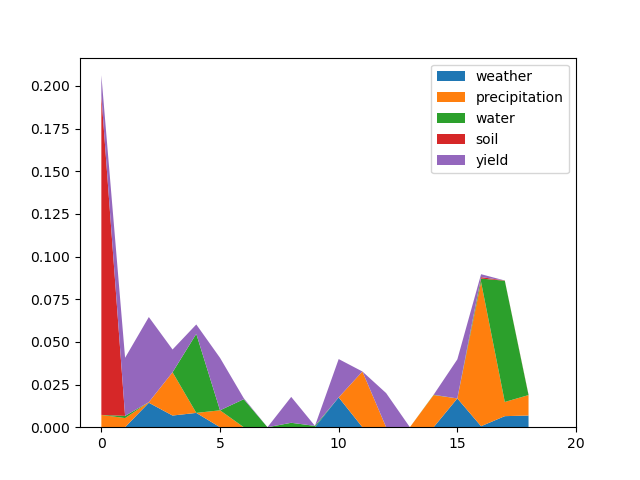
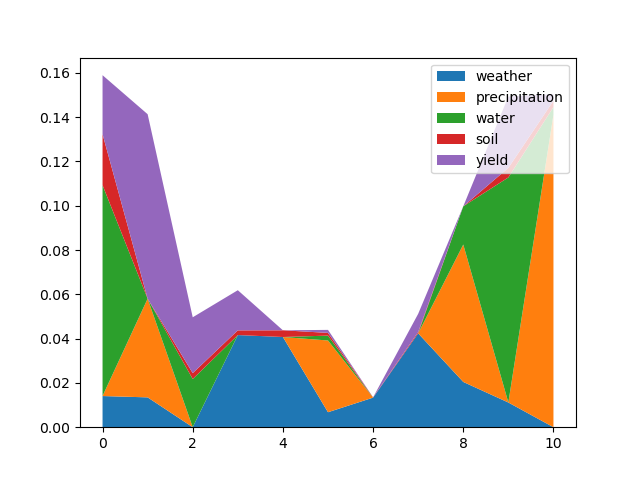
[feat] change env stop condition and retrain model

diff --git a/crop_model.py b/crop_model.py
@@ -5,7 +5,7 @@ import numpy as np
 
 class CropEnv:
     def __init__(self, num_features: int, num_actions: int, continuous: bool,
-                 max_iter: int, transition_funcs: List[Callable],  initial_state=None,
+                 transition_func: Callable, stop_cond: Callable, initial_state=None,
                  feature_labels: List[str] = None, action_labels: List[str] = None):
         """Initialize a crop experiment environment.
         Parameters
@@ -16,15 +16,15 @@ class CropEnv:
             Dimension of the action space.
         continuous : bool
             If the action space is continuous or not.
-        max_iter : int
-            Max number of iterations the environment will run.
-        transition_funcs : list of callable
-            List of transition functions. Length should equal to
-            `num_features`. Each function should take in two parameters,
-            `state_history` and `action_history`, where `state_history` is
-            a list of `t + 1` `np.ndarray` of shape `(num_features,)`, and
-            `action_history` is a list of `t` numbers, in which `t` is the
-            total number of steps run.
+        transition_func : callable
+            Transition functions that take in two parameters `state_history`
+            and `action_history`, and returns the next state and reward.
+            `state_history` is list of `t + 1` `np.ndarray` of shape
+            `(num_features,)`, and action_history` is a list of `t` numbers,
+            in which `t` is the total number of steps run.
+        stop_cond : callable
+            A function that takes in the current state and the iteration
+            number and return `True` if the simulation should terminate.
         initial_state : , (n,) array, or `None`, optional
             Initial state. Also used to restart the environment. `n` is
             equal to `num_features`.
@@ -36,10 +36,9 @@ class CropEnv:
         self.num_features = num_features
         self.num_actions = num_actions
         self.continuous = continuous
-        self.max_iter = max_iter
-        self.iter = 0
-        assert len(transition_funcs) == num_features
-        self.transition_funcs = transition_funcs
+        self.transition_func = transition_func
+        self.stop_cond = stop_cond
+        self.random_seed = None
 
         if initial_state is not None:
             assert np.array(initial_state).shape == (num_features,)
@@ -53,17 +52,34 @@ class CropEnv:
             assert len(action_labels) == num_actions
         self.action_labels = action_labels
 
+        self.iter = 0
         self.state_history = [self.initial_state]
         self.action_history = []
+        self.rewards = []
+        self.reset()
+
+    def set_random_seed(self, random_seed):
+        """Set the random seed. Also reset the environment.
+        Parameters
+        ----------
+        random_seed : int
+            The random seed.
+        """
+        self.random_seed = random_seed
+        self.reset()
 
     def reset(self):
         """Restart the environment.
         Initialize to `self.initial_state`, or all zero if
-        `self.initial_state` is `None`.
+        `self.initial_state` is `None`. If `self.random_seed` is not None, also
+        set the random seed to that value.
         """
         self.iter = 0
         self.state_history = [self.initial_state]
         self.action_history = []
+        self.rewards = []
+        if self.random_seed is not None:
+            np.random.seed(self.random_seed)
 
     def step(self, action: np.ndarray) -> np.ndarray:
         """Execute one step in the environment.
@@ -81,15 +97,22 @@ class CropEnv:
         done: bool
             `True` if the simulation is ended.
         """
-        assert self.iter + 1 < self.max_iter
         self.iter += 1
 
         self.action_history.append(action)
-        new_state = self.state_history[-1].copy()
-        for i in range(self.num_features):
-            new_state[i] = self.transition_funcs[i](self.state_history, self.action_history)
+        new_state, reward = self.transition_func(self.state_history, self.action_history)
         self.state_history.append(new_state)
-        return new_state, new_state[-1], self.iter == self.max_iter - 1
+        self.rewards.append(reward)
+        return new_state, reward, self.stop_cond(new_state, self.iter)
+
+    def total_return(self):
+        """Compute the return of the current run.
+        Returns
+        -------
+        _return : float
+            Sum of the rewards of the current run.
+        """
+        return sum(self.rewards)
 
     def print_history(self):
         for t in range(len(self.state_history)):
@@ -104,7 +127,7 @@ class CropEnv:
             if t < len(self.action_history):
                 if self.action_labels is not None:
                     action_str = ", ".join([f"{label}={val}" for val, label
-                                           in zip(self.action_history[t], self.action_labels)])
+                                            in zip(self.action_history[t], self.action_labels)])
                 else:
                     action_str = str(self.action_history[t])
                 print(f'action:\n\t{action_str}')
@@ -121,60 +144,68 @@ def get_toy_env():
     feature_labels = ['weather', 'precipitation', 'water', 'soil', 'yield']
     action_labels = ['irrigation', 'fertilizer']
 
-    def weather_transition(state_history, _action_history, p):
+    def transition_func(state_history, action_history):
+        WEATHER_CHANGE_PROB = 0.2
+        GOOD_WEATHER_PRECIP_MEAN = 0
+        GOOD_WEATHER_PRECIP_STD = 50
+        BAD_WEATHER_PRECIP_MEAN = 150
+        BAD_WEATHER_PRECIP_STD = 50
+        IRRIGATION_MEAN = 100
+        IRRIGATION_STD = 10
+        SOIL_DECAY = 0.95
+        FERTILIZER_DECAY = 0.8
+        BASE_YIELD_MEAN = 100
+        BASE_YIELD_STD = 20
+        DESIRED_WATER = 100
+        WATER_PENALTY = 0.02
+        FERTILIZER_BONUS = 3.5
+
+        prev_state = state_history[-1]
+        action = action_history[-1]
+
+        prev_weather, prev_soil = prev_state[0], prev_state[3]
+        irrigate, fertilize = action
+
         # weather is good (0) or bad (1)
         # weather has a chance of `1 - p` to change
-        prev_weather = state_history[-1][0]
-        return prev_weather if np.random.rand() < p else 1 - prev_weather
+        weather = 1 - prev_weather if np.random.rand() < WEATHER_CHANGE_PROB else prev_weather
 
-    def precipitation_transition(state_history, _action_history,
-                                 mean_lo, std_lo, mean_hi, std_hi):
-        # precipitation is a float
-        # if previous weather is good, return max(N(`mean_lo`, `std_lo`), 0)
+        # if previous weather is good, precipitation is max(N(`mean_lo`, `std_lo`), 0)
         # otherwise, return max(N(`mean_hi`, `std_hi`), 0)
-        prev_weather = state_history[-1][0]
         if prev_weather == 0:
-            precipitation = np.random.normal(mean_lo, std_lo)
+            precip = np.random.normal(GOOD_WEATHER_PRECIP_MEAN, GOOD_WEATHER_PRECIP_STD)
         else:
-            precipitation = np.random.normal(mean_hi, std_hi)
-        precipitation = max(precipitation, 0)
-        return precipitation
+            precip = np.random.normal(BAD_WEATHER_PRECIP_MEAN, BAD_WEATHER_PRECIP_STD)
+        precip = max(precip, 0)
 
-    def water_transition(state_history, action_history, irrigation_amount):
         # amount of water crop received is precipitation + irrigation
-        irrigation = action_history[-1][0] if len(action_history) else False
-        return state_history[-1][1] + (irrigation_amount if irrigation else 0)
+        irrigation = np.random.normal(IRRIGATION_MEAN, IRRIGATION_STD) if irrigate else 0
+        water = precip + irrigation
 
-    def soil_transition(state_history, action_history,
-                        regular_decay, fertilizer_decay):
         # soil degrade with regular_decay * fertilizer_decay
-        soil = state_history[-1][3] * regular_decay
-        if action_history[-1][1]:
-            soil *= fertilizer_decay
-        return soil
+        soil = prev_soil * SOIL_DECAY
+        if fertilize:
+            soil *= FERTILIZER_DECAY
 
-    def yield_transition(state_history, action_history, water_mean, water_std, fertilizer_bonus):
-        # yield = water_contribution + soil + fertilizer_bonus
-        # water_contribution = N(water_mean, water_std)
+        # yield = max((base_yield + water_contribution) * soil * fertilizer_bonus, 0)
+        # water_penalty = -water_penalty * (water - water_base) ** 2
         # note that water_contribution could be negative
         # fertilizer_bonus only applies if fertilized
-        return np.random.normal(water_mean, water_std) \
-               + state_history[-1][3] \
-               + fertilizer_bonus if action_history[-1][1] else 0
+        result = np.random.normal(BASE_YIELD_MEAN, BASE_YIELD_STD)
+        result -= WATER_PENALTY * ((water - DESIRED_WATER) ** 2)
+        result *= soil
+        if fertilize:
+            result *= FERTILIZER_BONUS
+        result = max(result, 0)
 
-    toy_transition_funcs = [
-        # weather
-        lambda states, actions: weather_transition(states, actions, 0.6),
-        # precipitation
-        lambda states, actions: precipitation_transition(states, actions, 20, 10, 200, 50),
-        # water
-        lambda states, actions: water_transition(states, actions, 100),
-        # soil
-        lambda states, actions: soil_transition(states, actions, 1.0, 0.8),
-        # yield
-        lambda states, actions: yield_transition(states, actions, 100, 20, 20)
-    ]
-    env = CropEnv(5, 2, False, 20, toy_transition_funcs,
-                  initial_state=np.array([0, 0, 0, 100, 0]),
+        new_state = np.array([weather, precip, water, soil, result])
+        return new_state, result
+
+    def stop_cond(state, _it):
+        # terminate if soil is < 0.1
+        return state[3] < 0.1
+
+    env = CropEnv(5, 2, False, transition_func, stop_cond,
+                  initial_state=np.array([0, 0, 0, 1., 0]),
                   feature_labels=feature_labels, action_labels=action_labels)
     return feature_labels, action_labels, env

diff --git a/visualize.py b/visualize.py
@@ -10,20 +10,57 @@ device = torch.device("cuda" if torch.cuda.is_available() else "cpu")
 
 feature_labels, action_labels, env = get_toy_env()
 env: CropEnv = env
+env.set_random_seed(42)
 
 n_features = len(feature_labels)
 # nop, only irrigation, only fertilizer, both
 actions = [[False, False], [True, False], [False, True], [True, True]]
 n_actions = len(actions)
 
-hidden_layers = [32, 64]
+hidden_layers = [16, 32, 64]
 
 net = DQN(n_features, n_actions, hidden_layers).to(device)
 net.load_state_dict(torch.load('./model/dqn.pth'))
 
-# nop, only irrigation, only fertilizer, both
+
+def plot_state_history(env, path):
+    state_history = np.array(env.state_history)
+    for feature_history, label in zip(state_history.T, feature_labels):
+        if label == 'weather' or label == 'soil':
+            feature_history = feature_history * 100
+        plt.plot(feature_history, label=label)
+    plt.xlabel('iteration')
+    plt.legend()
+    plt.savefig(path)
+    plt.clf()
+
+
+# nop, only irrigate, only fertilize, both
 actions = [[False, False], [True, False], [False, True], [True, True]]
 
+# simulate do nothing agent
+done = False
+while not done:
+    action = [False, False]
+    _, _, done = env.step(action)
+print(f'do nothing agent:\n\tsteps = {len(env.state_history)}\n\treturn = {env.total_return()}')
+plot_state_history(env, './imgs/state_history_do_nothing.png')
+env.reset()
+
+# simulate human agent
+state = env.state_history[0]
+done = False
+while not done:
+    if state[0] == 0:  # good weather, irrigate and fertilize
+        action = [True, True]
+    else:  # bad weather, do nothing
+        action = [False, False]
+    state, _, done = env.step(action)
+print(f'human agent:\n\tsteps = {len(env.state_history)}\n\treturn = {env.total_return()}')
+plot_state_history(env, './imgs/state_history_human.png')
+env.reset()
+
+# DQN agent
 state = torch.tensor(env.state_history[0], device=device, dtype=torch.float)
 done = False
 while not done:
@@ -31,19 +68,12 @@ while not done:
     action = actions[action_id]
     state, _, done = env.step(action)
     state = torch.tensor(state, device=device, dtype=torch.float)
+print(f'DQN agent:\n\tsteps = {len(env.state_history)}\n\treturn = {env.total_return()}')
 
-# plot state history
-state_history = np.array(env.state_history)
-for feature_history, label in zip(state_history.T, feature_labels):
-    if label == 'weather':
-        feature_history = feature_history * 100
-    plt.plot(feature_history, label=label)
-plt.legend()
-plt.xticks([0, 5, 10, 15, 20])
-plt.savefig('./imgs/state_history.png')
-plt.clf()
+plot_state_history(env, './imgs/state_history_dqn.png')
 
 # plot saliency
+state_history = np.array(env.state_history)
 saliency_history = np.zeros_like(state_history[:-1])
 saliency_history = saliency_history.astype(np.float64)
 medians = np.median(state_history, axis=0)
@@ -56,7 +86,8 @@ with torch.no_grad():
         action_id = q_values.argmax()
 
         max_q = np.max(q_values)
-        q_values /= max_q
+        if max_q:
+            q_values /= max_q
 
         for j in range(n_features):
             state_perturbed = state.clone()
@@ -68,7 +99,11 @@ with torch.no_grad():
 
             q_values_perturbed = net(state_perturbed)
             q_values_perturbed = np.array(q_values_perturbed)
-            q_values_perturbed /= max_q
+            if max_q:
+                q_values_perturbed /= max_q
+
+            print(q_values)
+            print(q_values_perturbed)
 
             q_dict = {i: q for i, q in enumerate(q_values)}
             q_perturbed_dict = {i: q for i, q in enumerate(q_values_perturbed)}
@@ -78,6 +113,5 @@ with torch.no_grad():
 
 plt.stackplot(np.arange(len(saliency_history)), saliency_history.T, labels=feature_labels)
 plt.legend()
-plt.xticks([0, 5, 10, 15, 20])
 plt.savefig('./imgs/saliency_history.png')
 plt.clf()

diff --git a/train.py b/train.py
@@ -40,7 +40,7 @@ BATCH_SIZE = 64
 GAMMA = 0.999
 EPS_START = 0.9
 EPS_END = 0.05
-EPS_DECAY = 200
+EPS_DECAY = 50
 TARGET_UPDATE = 10
 
 feature_labels, action_labels, env = get_toy_env()
@@ -50,7 +50,7 @@ n_features = len(feature_labels)
 actions = [[False, False], [True, False], [False, True], [True, True]]
 n_actions = len(actions)
 
-hidden_layers = [32, 64]
+hidden_layers = [16, 32, 64]
 
 policy_net = DQN(n_features, n_actions, hidden_layers).to(device)
 target_net = DQN(n_features, n_actions, hidden_layers).to(device)
@@ -68,8 +68,7 @@ def select_action(state):
         state = state.unsqueeze(0)
     global steps_done
     sample = random.random()
-    eps = EPS_END + (EPS_START - EPS_END) * \
-          np.exp(-1. * steps_done / EPS_DECAY)
+    eps = EPS_END + (EPS_START - EPS_END) * np.exp(-1. * steps_done / EPS_DECAY)
     steps_done += 1
     if sample > eps:
         with torch.no_grad():
@@ -127,7 +126,7 @@ def optimize_model():
 
 episode_durations = []
 
-num_episodes = 100
+num_episodes = 500
 for i_episode in range(num_episodes):
     # Initialize the environment and state
     env.reset()
@@ -156,5 +155,7 @@ for i_episode in range(num_episodes):
     # Update the target network, copying all weights and biases in DQN
     if i_episode % TARGET_UPDATE == 0:
         target_net.load_state_dict(policy_net.state_dict())
+
+print(episode_durations)
 
 torch.save(policy_net.state_dict(), 'model/dqn.pth')
